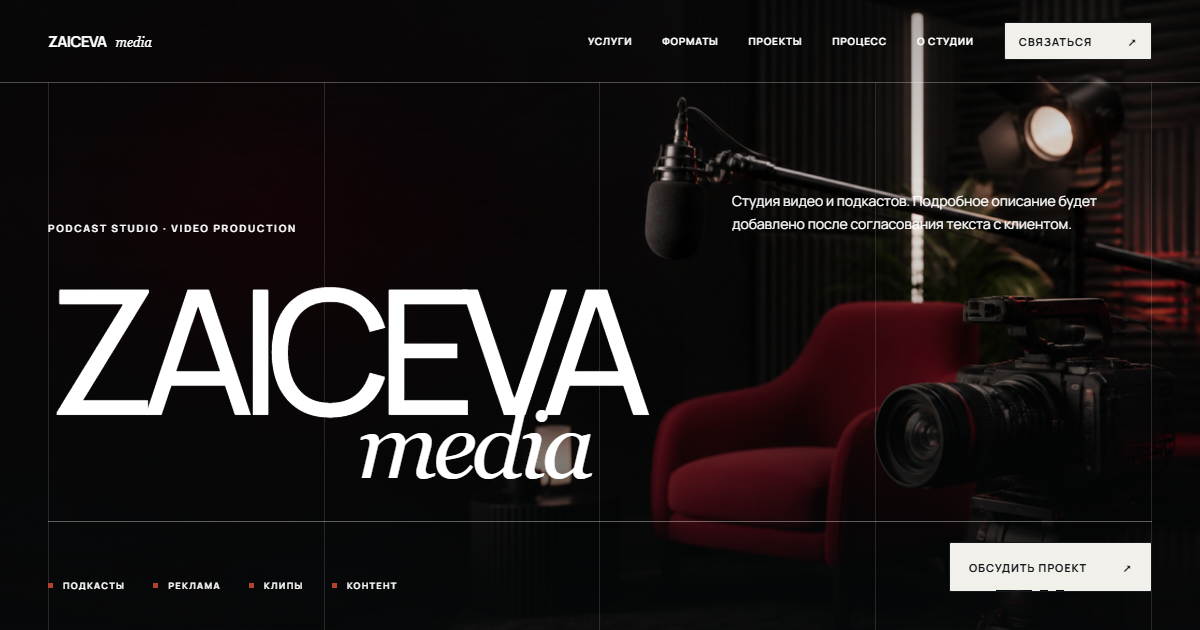
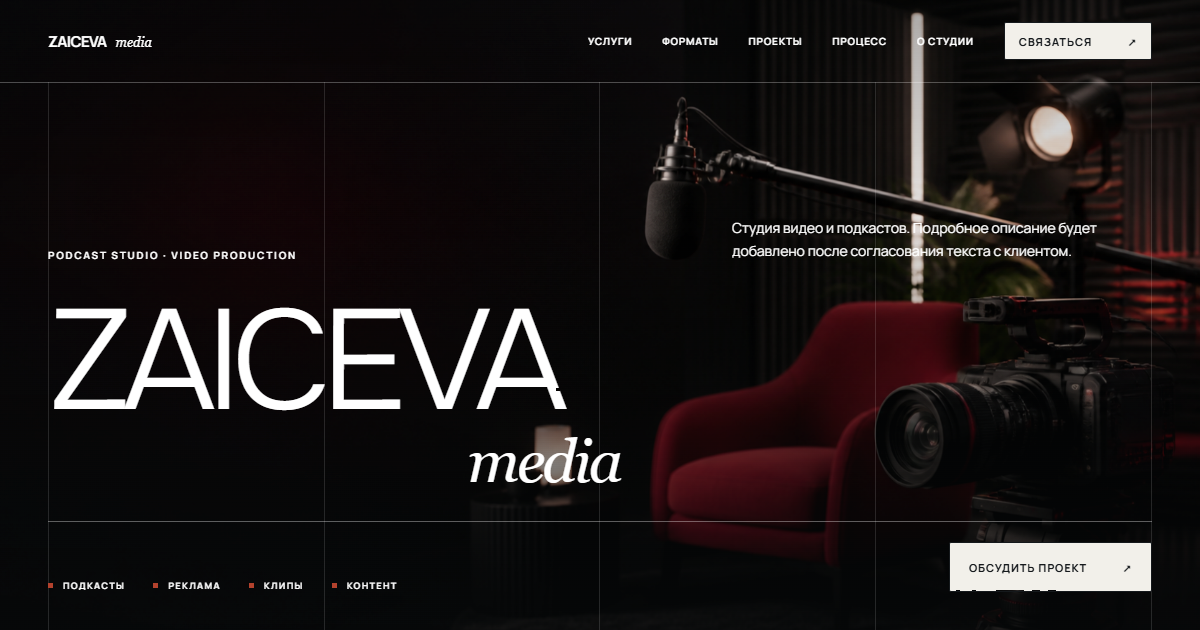
Refine typography and project carousel spacing

Changed region(s): [[0.0308, 0.4524, 0.555, 0.7841], [0.6167, 0.3016, 0.925, 0.4222], [0.0308, 0.3317, 0.2467, 0.4222]]

diff --git a/zaiceva-media/index.html b/zaiceva-media/index.html
@@ -18,24 +18,24 @@
   <link rel="icon" href="public/favicon.svg" type="image/svg+xml" />
   <link rel="preconnect" href="https://fonts.googleapis.com" />
   <link rel="preconnect" href="https://fonts.gstatic.com" crossorigin />
-  <link href="https://fonts.googleapis.com/css2?family=Manrope:wght@400;500;600;700&amp;display=swap" rel="stylesheet" />
+  <link href="https://fonts.googleapis.com/css2?family=Manrope:wght@400;500;600;700&amp;family=Onest:wght@300;400;500;600&amp;display=swap" rel="stylesheet" />
   <title>Zaiceva Media — студия подкастов и видео</title>
   <script type="application/ld+json">{"@context":"https://schema.org","@type":"ProfessionalService","name":"Zaiceva Media","url":"https://timok05.github.io/stixamiudivi/zaiceva-media/","image":"https://timok05.github.io/stixamiudivi/zaiceva-media/public/og.png","sameAs":["https://www.instagram.com/zaiceva.media"],"knowsAbout":["Видеопроизводство","Подкасты","Монтаж видео","Рекламные ролики","Музыкальные клипы"]}</script>
   <style>
     :root{--ink:#15191c;--paper:#f2f0ea;--white:#fff;--mist:#c4d2dc;--slate:#2e4c5f;--signal:#b3422d;--line:rgba(21,25,28,.22);--muted:#62676a;--max:1360px;--gutter:clamp(20px,4vw,64px)}
     *{box-sizing:border-box}html{scroll-behavior:smooth}body{margin:0;overflow-x:hidden;color:var(--ink);background:var(--paper);font-family:"Manrope",Arial,sans-serif;-webkit-font-smoothing:antialiased;text-rendering:optimizeLegibility}body.menu-open{overflow:hidden}a{color:inherit;text-decoration:none}button{color:inherit;font:inherit}img{display:block;max-width:100%}.site-shell{overflow:hidden}.wrap{width:min(calc(100% - (var(--gutter)*2)),var(--max));margin-inline:auto}
-    .display{margin:0;font-size:clamp(55px,8.25vw,126px);font-weight:500;letter-spacing:-.075em;line-height:.84;text-transform:uppercase}.kicker{margin:0;font-size:10px;font-weight:700;letter-spacing:.18em;line-height:1.4;text-transform:uppercase}.button{display:inline-flex;min-height:50px;align-items:center;justify-content:space-between;gap:36px;padding:0 19px;border:1px solid currentColor;border-radius:2px;font-size:11px;font-weight:700;letter-spacing:.08em;text-transform:uppercase;transition:color .25s ease,background-color .25s ease,transform .25s ease}.button:hover{transform:translateY(-2px)}.button--light{color:var(--ink);background:var(--paper)}.button--light:hover{color:var(--white);background:var(--signal)}.button--dark{color:var(--paper);background:var(--ink)}.button--dark:hover{background:var(--slate)}.button:focus-visible,.menu-toggle:focus-visible,.nav a:focus-visible,.carousel-control:focus-visible,.project-viewport:focus-visible,.project-card:focus-visible{outline:2px solid var(--signal);outline-offset:5px}
+    .display{margin:0;font-family:"Onest","Manrope",Arial,sans-serif;font-size:clamp(50px,7vw,106px);font-weight:400;letter-spacing:-.055em;line-height:.92;text-transform:uppercase}.kicker{margin:0;font-size:10px;font-weight:700;letter-spacing:.18em;line-height:1.4;text-transform:uppercase}.button{display:inline-flex;min-height:50px;align-items:center;justify-content:space-between;gap:36px;padding:0 19px;border:1px solid currentColor;border-radius:2px;font-size:11px;font-weight:700;letter-spacing:.08em;text-transform:uppercase;transition:color .25s ease,background-color .25s ease,transform .25s ease}.button:hover{transform:translateY(-2px)}.button--light{color:var(--ink);background:var(--paper)}.button--light:hover{color:var(--white);background:var(--signal)}.button--dark{color:var(--paper);background:var(--ink)}.button--dark:hover{background:var(--slate)}.button:focus-visible,.menu-toggle:focus-visible,.nav a:focus-visible,.carousel-control:focus-visible,.project-viewport:focus-visible,.project-card:focus-visible{outline:2px solid var(--signal);outline-offset:5px}
     .topbar{position:absolute;z-index:30;top:0;right:0;left:0;color:var(--white);border-bottom:1px solid rgba(255,255,255,.28)}.topbar-inner{display:flex;min-height:82px;align-items:center;gap:34px}.brand{display:inline-flex;align-items:baseline;gap:9px;flex:0 0 auto;font-size:15px;font-weight:700;letter-spacing:-.04em;text-transform:uppercase}.brand span:last-child{font-family:Georgia,serif;font-size:13px;font-style:italic;font-weight:400;letter-spacing:0;text-transform:none}.nav{display:flex;align-items:center;gap:30px;margin-left:auto;font-size:10px;font-weight:700;letter-spacing:.08em;text-transform:uppercase}.nav>a:not(.button){position:relative;padding-block:10px}.nav>a:not(.button):after{position:absolute;right:0;bottom:3px;left:0;height:1px;background:currentColor;content:"";transform:scaleX(0);transform-origin:right;transition:transform .25s ease}.nav>a:not(.button):hover:after{transform:scaleX(1);transform-origin:left}.topbar .button{min-height:38px;padding-inline:14px;color:var(--ink);background:var(--paper)}.menu-toggle{display:none;width:44px;height:44px;margin-left:auto;padding:0;border:1px solid rgba(255,255,255,.6);border-radius:50%;background:transparent;cursor:pointer}.menu-toggle span,.menu-toggle:before,.menu-toggle:after{display:block;width:16px;height:1px;margin:5px auto;background:currentColor;content:"";transition:transform .2s ease,opacity .2s ease}.menu-toggle[aria-expanded=true] span{opacity:0}.menu-toggle[aria-expanded=true]:before{transform:translateY(6px) rotate(45deg)}.menu-toggle[aria-expanded=true]:after{transform:translateY(-6px) rotate(-45deg)}
-    .hero{position:relative;min-height:100svh;display:flex;align-items:flex-end;overflow:hidden;color:var(--white);background:var(--ink)}.hero-image-frame{position:absolute;inset:0;overflow:hidden;background:#0a0b0c}.hero-image-frame img{width:100%;height:100%;object-fit:cover;object-position:center;animation:hero-scale 14s ease-out both}.hero-image-frame:after{position:absolute;inset:0;background:linear-gradient(180deg,rgba(7,9,10,.32) 0%,rgba(7,9,10,.08) 34%,rgba(7,9,10,.76) 100%),linear-gradient(90deg,rgba(7,9,10,.44),transparent 52%);content:""}.hero-grid-lines{position:absolute;inset:82px var(--gutter) 0;z-index:1;display:grid;grid-template-columns:repeat(4,1fr);border-right:1px solid rgba(255,255,255,.13);border-left:1px solid rgba(255,255,255,.13);pointer-events:none}.hero-grid-lines i{border-right:1px solid rgba(255,255,255,.13)}.hero-grid-lines i:last-child{border-right:0}.hero-inner{position:relative;z-index:2;width:100%;padding:150px 0 38px}.hero-intro{display:grid;grid-template-columns:1fr minmax(280px,420px);gap:50px;align-items:end;margin-bottom:clamp(55px,9vh,110px)}.hero-intro p:last-child{max-width:420px;margin:0;font-size:14px;line-height:1.65}.hero-title{font-size:clamp(72px,14.5vw,220px);letter-spacing:-.09em;line-height:.66;white-space:nowrap}.hero-title span{display:block;margin-left:28%;font-family:Georgia,serif;font-size:.53em;font-style:italic;font-weight:400;letter-spacing:-.055em;line-height:.85;text-transform:none}.hero-bottom{display:grid;grid-template-columns:1fr auto;gap:30px;align-items:end;margin-top:36px;padding-top:20px;border-top:1px solid rgba(255,255,255,.35)}.hero-index{display:flex;flex-wrap:wrap;gap:28px;margin:0;padding:0;list-style:none;font-size:9px;font-weight:700;letter-spacing:.15em;text-transform:uppercase}.hero-index li{display:flex;align-items:center;gap:10px}.hero-index li:before{width:5px;height:5px;background:var(--signal);content:""}@keyframes hero-scale{from{transform:scale(1.075)}to{transform:scale(1)}}
+    .hero{position:relative;min-height:100svh;display:flex;align-items:flex-end;overflow:hidden;color:var(--white);background:var(--ink)}.hero-image-frame{position:absolute;inset:0;overflow:hidden;background:#0a0b0c}.hero-image-frame img{width:100%;height:100%;object-fit:cover;object-position:center;animation:hero-scale 14s ease-out both}.hero-image-frame:after{position:absolute;inset:0;background:linear-gradient(180deg,rgba(7,9,10,.32) 0%,rgba(7,9,10,.08) 34%,rgba(7,9,10,.76) 100%),linear-gradient(90deg,rgba(7,9,10,.44),transparent 52%);content:""}.hero-grid-lines{position:absolute;inset:82px var(--gutter) 0;z-index:1;display:grid;grid-template-columns:repeat(4,1fr);border-right:1px solid rgba(255,255,255,.13);border-left:1px solid rgba(255,255,255,.13);pointer-events:none}.hero-grid-lines i{border-right:1px solid rgba(255,255,255,.13)}.hero-grid-lines i:last-child{border-right:0}.hero-inner{position:relative;z-index:2;width:100%;padding:150px 0 38px}.hero-intro{display:grid;grid-template-columns:1fr minmax(280px,420px);gap:50px;align-items:end;margin-bottom:clamp(45px,6vh,72px)}.hero-intro p:last-child{max-width:420px;margin:0;font-size:14px;line-height:1.65}.hero-title{font-size:clamp(68px,11.8vw,178px);font-weight:300;letter-spacing:-.07em;line-height:.78;white-space:nowrap}.hero-title span{display:block;margin:clamp(12px,1.4vw,22px) 0 0 38%;font-family:Georgia,serif;font-size:.42em;font-style:italic;font-weight:400;letter-spacing:-.045em;line-height:.88;text-transform:none}.hero-bottom{display:grid;grid-template-columns:1fr auto;gap:30px;align-items:end;margin-top:34px;padding-top:20px;border-top:1px solid rgba(255,255,255,.35)}.hero-index{display:flex;flex-wrap:wrap;gap:28px;margin:0;padding:0;list-style:none;font-size:9px;font-weight:700;letter-spacing:.15em;text-transform:uppercase}.hero-index li{display:flex;align-items:center;gap:10px}.hero-index li:before{width:5px;height:5px;background:var(--signal);content:""}@keyframes hero-scale{from{transform:scale(1.075)}to{transform:scale(1)}}
     .ticker{overflow:hidden;color:var(--paper);background:var(--signal)}.ticker-track{display:flex;width:max-content;animation:ticker-run 36s linear infinite}.ticker-item{display:flex;align-items:center;gap:30px;padding:17px 30px;font-family:Georgia,serif;font-size:17px;font-style:italic;white-space:nowrap}.ticker-item:after{width:44px;height:1px;background:currentColor;content:""}@keyframes ticker-run{to{transform:translateX(-50%)}}
     .section-head{display:grid;grid-template-columns:minmax(0,1.25fr) minmax(260px,.5fr);gap:60px;align-items:end;margin-bottom:72px}.section-head .display{margin-top:24px}.section-head>p{max-width:390px;margin:0 0 5px auto;color:var(--muted);font-size:14px;line-height:1.7}.services{padding:145px 0 150px;background:var(--paper)}.service-list{border-top:1px solid var(--line)}.service-card{display:grid;grid-template-columns:90px minmax(280px,.9fr) minmax(260px,.7fr) 32px;gap:30px;align-items:center;min-height:138px;border-bottom:1px solid var(--line);transition:padding .25s ease,color .25s ease,background-color .25s ease}.service-card:hover{padding-inline:18px;color:var(--paper);background:var(--slate)}.service-number{font-size:10px;font-weight:700;letter-spacing:.12em}.service-card h3{margin:0;font-size:clamp(24px,3vw,43px);font-weight:500;letter-spacing:-.05em;line-height:1.05}.service-card p{max-width:330px;margin:0;color:var(--muted);font-size:12px;line-height:1.6}.service-card:hover p{color:rgba(255,255,255,.7)}.service-arrow{font-size:20px;font-weight:400;transition:transform .25s ease}.service-card:hover .service-arrow{transform:translate(5px,-5px)}
     .formats{color:var(--paper);background:var(--ink)}.formats-grid{display:grid;grid-template-columns:1.1fr .9fr;min-height:760px}.formats-media{position:relative;min-height:600px;overflow:hidden}.formats-media img{width:100%;height:100%;object-fit:cover;object-position:69% center;filter:grayscale(1) contrast(1.05);transition:filter .7s ease,transform 1s ease}.formats:hover .formats-media img{filter:grayscale(.25) contrast(1.02);transform:scale(1.015)}.formats-media:after{position:absolute;inset:0;background:linear-gradient(180deg,transparent 50%,rgba(12,14,15,.6));content:""}.formats-caption{position:absolute;z-index:2;right:28px;bottom:24px;left:28px;display:flex;justify-content:space-between;gap:20px;padding-top:14px;border-top:1px solid rgba(255,255,255,.4);font-size:9px;letter-spacing:.14em;text-transform:uppercase}.formats-copy{display:flex;flex-direction:column;padding:92px var(--gutter) 70px;overflow:hidden}.formats-copy .display{margin:28px 0 62px;font-size:clamp(60px,7.2vw,110px)}.format-list{margin:auto 0 0;padding:0;list-style:none}.format-list li{display:grid;grid-template-columns:44px 1fr auto;gap:14px;align-items:baseline;padding:21px 0;border-top:1px solid rgba(255,255,255,.22)}.format-list small{font-size:9px;letter-spacing:.15em}.format-list strong{font-size:18px;font-weight:500;letter-spacing:-.025em}.format-list span{color:rgba(255,255,255,.45);font-size:9px;letter-spacing:.1em;text-transform:uppercase}
-    .projects{padding:145px 0 138px;overflow:hidden;background:var(--mist)}.projects-head{display:grid;grid-template-columns:minmax(0,1fr) auto;gap:40px;align-items:end;margin-bottom:65px}.projects-head .display{margin-top:24px}.carousel-controls{display:flex;align-items:center;gap:10px;padding-bottom:7px}.carousel-counter{min-width:70px;font-size:10px;font-weight:700;letter-spacing:.12em;text-align:center}.carousel-control{display:grid;width:48px;height:48px;place-items:center;border:1px solid var(--ink);border-radius:50%;background:transparent;cursor:pointer;transition:color .25s ease,background-color .25s ease}.carousel-control:hover{color:var(--paper);background:var(--ink)}.project-viewport{overflow-x:auto;scroll-behavior:smooth;scroll-snap-type:x mandatory;scrollbar-width:none;cursor:grab}.project-viewport:active{cursor:grabbing}.project-viewport::-webkit-scrollbar{display:none}.project-track{display:flex;width:max-content;gap:18px;padding:0 max(var(--gutter),calc((100vw - var(--max))/2))}.project-card{width:clamp(390px,59vw,880px);flex:0 0 auto;scroll-snap-align:start}.project-stage{position:relative;aspect-ratio:16/9;overflow:hidden;background:#1c2022}.project-stage img{width:100%;height:100%;object-fit:cover;filter:saturate(.5) contrast(1.04);transition:filter .55s ease,transform .8s cubic-bezier(.2,.7,.2,1)}.project-card:nth-child(1) .project-stage img{object-position:65% center}.project-card:nth-child(2) .project-stage img{object-position:46% 44%;filter:grayscale(1) contrast(1.1)}.project-card:nth-child(3) .project-stage img{object-position:86% 55%;filter:saturate(.15) sepia(.18) contrast(1.08)}.project-card:nth-child(4) .project-stage img{object-position:55% 74%;filter:grayscale(.5) contrast(1.15)}.project-card:nth-child(5) .project-stage img{object-position:75% 25%;filter:saturate(.35) contrast(1.02)}.project-card:hover .project-stage img,.project-card:focus-visible .project-stage img{filter:saturate(.9) contrast(1.02);transform:scale(1.025)}.project-stage:after{position:absolute;inset:0;background:linear-gradient(180deg,rgba(11,12,13,.08),rgba(11,12,13,.68));content:""}.project-label,.project-index{position:absolute;z-index:2;top:20px;color:var(--white);font-size:9px;font-weight:700;letter-spacing:.16em;text-transform:uppercase}.project-label{left:22px}.project-index{right:22px}.project-placeholder{position:absolute;z-index:2;right:22px;bottom:20px;left:22px;display:flex;align-items:flex-end;justify-content:space-between;gap:24px;color:var(--white)}.project-placeholder strong{max-width:650px;font-size:clamp(28px,4.7vw,68px);font-weight:500;letter-spacing:-.055em;line-height:.9}.project-play{display:grid;width:50px;height:50px;flex:0 0 auto;place-items:center;border:1px solid rgba(255,255,255,.7);border-radius:50%;font-size:11px;transition:color .25s ease,background-color .25s ease,transform .25s ease}.project-card:hover .project-play{color:var(--ink);background:var(--paper);transform:scale(1.06)}.project-meta{display:flex;align-items:flex-start;justify-content:space-between;gap:30px;padding:18px 0 0}.project-meta h3{margin:0;font-size:17px;font-weight:600;letter-spacing:-.025em}.project-meta p{max-width:260px;margin:2px 0 0;color:#4d5b63;font-size:10px;line-height:1.5;text-align:right;text-transform:uppercase;letter-spacing:.08em}.carousel-progress{height:1px;margin-top:54px;background:rgba(21,25,28,.22)}.carousel-progress span{display:block;width:20%;height:2px;background:var(--signal);transform:translateX(var(--progress-x,0%));transition:transform .45s ease}
-    .process{padding:145px 0 155px;background:var(--paper)}.process-list{display:grid;grid-template-columns:repeat(4,1fr);border-top:1px solid var(--line)}.process-card{min-height:330px;padding:21px 30px 28px 0;border-right:1px solid var(--line)}.process-card:not(:first-child){padding-left:30px}.process-card:last-child{border-right:0}.process-card span{font-size:9px;font-weight:700;letter-spacing:.15em}.process-card h3{margin:142px 0 20px;font-size:24px;font-weight:500;letter-spacing:-.04em}.process-card p{max-width:230px;margin:0;color:var(--muted);font-size:11px;line-height:1.65}
+    .projects{padding:118px 0 120px;overflow:hidden;background:var(--mist)}.projects-head{display:grid;grid-template-columns:minmax(0,1fr) auto;gap:40px;align-items:end;margin-bottom:50px}.projects-head .display{max-width:720px;margin-top:20px;font-size:clamp(46px,6.2vw,88px);line-height:.94}.carousel-controls{display:flex;align-items:center;gap:10px;padding-bottom:7px}.carousel-counter{min-width:70px;font-size:10px;font-weight:700;letter-spacing:.12em;text-align:center}.carousel-control{display:grid;width:48px;height:48px;place-items:center;border:1px solid var(--ink);border-radius:50%;background:transparent;cursor:pointer;transition:color .25s ease,background-color .25s ease}.carousel-control:hover{color:var(--paper);background:var(--ink)}.project-viewport{margin-inline:max(var(--gutter),calc((100vw - var(--max))/2));overflow-x:auto;scroll-behavior:smooth;scroll-snap-type:x mandatory;scrollbar-width:none;cursor:grab}.project-viewport:active{cursor:grabbing}.project-viewport::-webkit-scrollbar{display:none}.project-track{display:flex;width:max-content;gap:14px;padding:0}.project-card{width:clamp(350px,50vw,720px);flex:0 0 auto;scroll-snap-align:start}.project-stage{position:relative;aspect-ratio:16/9;overflow:hidden;background:#1c2022}.project-stage img{width:100%;height:100%;object-fit:cover;filter:saturate(.5) contrast(1.04);transition:filter .55s ease,transform .8s cubic-bezier(.2,.7,.2,1)}.project-card:nth-child(1) .project-stage img{object-position:65% center}.project-card:nth-child(2) .project-stage img{object-position:46% 44%;filter:grayscale(1) contrast(1.1)}.project-card:nth-child(3) .project-stage img{object-position:86% 55%;filter:saturate(.15) sepia(.18) contrast(1.08)}.project-card:nth-child(4) .project-stage img{object-position:55% 74%;filter:grayscale(.5) contrast(1.15)}.project-card:nth-child(5) .project-stage img{object-position:75% 25%;filter:saturate(.35) contrast(1.02)}.project-card:hover .project-stage img,.project-card:focus-visible .project-stage img{filter:saturate(.9) contrast(1.02);transform:scale(1.025)}.project-stage:after{position:absolute;inset:0;background:linear-gradient(180deg,rgba(11,12,13,.08),rgba(11,12,13,.68));content:""}.project-label,.project-index{position:absolute;z-index:2;top:20px;color:var(--white);font-size:9px;font-weight:700;letter-spacing:.16em;text-transform:uppercase}.project-label{left:22px}.project-index{right:22px}.project-placeholder{position:absolute;z-index:2;right:22px;bottom:20px;left:22px;display:flex;align-items:flex-end;justify-content:space-between;gap:24px;color:var(--white)}.project-placeholder strong{max-width:520px;font-family:"Onest","Manrope",Arial,sans-serif;font-size:clamp(25px,3.25vw,46px);font-weight:400;letter-spacing:-.045em;line-height:1}.project-play{display:grid;width:50px;height:50px;flex:0 0 auto;place-items:center;border:1px solid rgba(255,255,255,.7);border-radius:50%;font-size:11px;transition:color .25s ease,background-color .25s ease,transform .25s ease}.project-card:hover .project-play{color:var(--ink);background:var(--paper);transform:scale(1.06)}.project-meta{display:flex;align-items:flex-start;justify-content:space-between;gap:30px;padding:15px 0 0}.project-meta h3{margin:0;font-size:16px;font-weight:600;letter-spacing:-.025em}.project-meta p{max-width:260px;margin:2px 0 0;color:#4d5b63;font-size:9px;line-height:1.5;text-align:right;text-transform:uppercase;letter-spacing:.08em}.carousel-progress{height:1px;margin-top:42px;background:rgba(21,25,28,.22)}.carousel-progress span{display:block;width:20%;height:2px;background:var(--signal);transform:translateX(var(--progress-x,0%));transition:transform .45s ease}
+    .process{padding:132px 0 145px;background:var(--paper)}.process-list{display:grid;grid-template-columns:repeat(4,1fr);border-top:1px solid var(--line)}.process-card{position:relative;isolation:isolate;min-height:310px;padding:21px 30px 28px 0;overflow:hidden;border-right:1px solid var(--line);transition:color .38s ease,transform .38s cubic-bezier(.2,.7,.2,1),box-shadow .38s ease}.process-card:before{position:absolute;z-index:-1;inset:0;background:var(--slate);content:"";transform:translateY(102%);transition:transform .42s cubic-bezier(.2,.7,.2,1)}.process-card:after{position:absolute;top:0;right:0;left:0;height:3px;background:var(--signal);content:"";transform:scaleX(0);transform-origin:left;transition:transform .42s ease}.process-card:not(:first-child){padding-left:30px}.process-card:last-child{border-right:0}.process-card span{font-size:9px;font-weight:700;letter-spacing:.15em;transition:color .3s ease}.process-card h3{margin:126px 0 20px;font-family:"Onest","Manrope",Arial,sans-serif;font-size:22px;font-weight:400;letter-spacing:-.03em;transition:transform .38s ease}.process-card p{max-width:230px;margin:0;color:var(--muted);font-size:11px;line-height:1.65;transition:color .3s ease}@media(hover:hover){.process-card:hover{z-index:2;color:var(--paper);transform:translateY(-8px);box-shadow:0 18px 36px rgba(21,25,28,.16)}.process-card:hover:before{transform:none}.process-card:hover:after{transform:scaleX(1)}.process-card:hover span{color:#e3a18f}.process-card:hover h3{transform:translateX(6px)}.process-card:hover p{color:rgba(255,255,255,.7)}}
     .about{color:var(--paper);background:var(--slate)}.about-grid{display:grid;grid-template-columns:.82fr 1.18fr;min-height:690px}.about-art{position:relative;min-height:520px;overflow:hidden;background:#131618}.about-art img{width:100%;height:100%;object-fit:cover;object-position:76% center;filter:grayscale(.95) contrast(1.1);opacity:.76}.about-art:after{position:absolute;inset:0;background:linear-gradient(180deg,transparent,rgba(10,12,13,.7));content:""}.about-zm{position:absolute;z-index:2;right:28px;bottom:20px;left:28px;font-family:Georgia,serif;font-size:clamp(90px,12vw,180px);font-style:italic;letter-spacing:-.09em;line-height:.62}.about-copy{align-self:center;padding:90px var(--gutter)}.about-copy h2{margin:28px 0 44px;font-size:clamp(60px,8vw,118px)}.about-copy>p:not(.kicker){max-width:570px;margin:0;color:rgba(255,255,255,.7);font-size:15px;line-height:1.75}.about-note{display:block;max-width:570px;margin-top:55px;padding-top:18px;border-top:1px solid rgba(255,255,255,.28);font-size:9px;letter-spacing:.14em;text-transform:uppercase}
     .cta{padding:140px 0 72px;background:var(--paper)}.cta-card{display:grid;grid-template-columns:minmax(0,1fr) auto;gap:50px;align-items:end;padding-bottom:70px;border-bottom:1px solid var(--ink)}.cta-card h2{max-width:1050px;margin:28px 0 0;font-size:clamp(58px,10vw,150px)}.cta-aside{max-width:360px;padding-bottom:9px}.cta-aside p{margin:0 0 28px;color:var(--muted);font-size:13px;line-height:1.7}footer{padding:25px 0 32px;background:var(--paper)}.footer-inner{display:grid;grid-template-columns:1fr auto auto;gap:34px;align-items:center;font-size:9px;font-weight:600;letter-spacing:.08em;text-transform:uppercase}.footer-inner p{margin:0;color:var(--muted)}.footer-link{padding-bottom:3px;border-bottom:1px solid var(--signal)}.reveal{opacity:0;transform:translateY(26px);transition:opacity .75s ease,transform .75s ease}.reveal.is-visible{opacity:1;transform:none}
     @media(max-width:1040px){.nav{gap:18px}.nav>a:not(.button){display:none}.formats-grid{grid-template-columns:.9fr 1.1fr}.service-card{grid-template-columns:60px minmax(250px,.9fr) minmax(220px,.7fr) 28px}.cta-card{grid-template-columns:1fr}.cta-aside{max-width:520px}}
-    @media(max-width:760px){:root{--gutter:20px}.wrap{width:calc(100% - (var(--gutter)*2))}.topbar-inner{min-height:70px}.menu-toggle{display:block}.topbar .brand{position:relative;z-index:41}.nav{position:fixed;z-index:40;inset:0;display:flex;flex-direction:column;align-items:flex-start;justify-content:center;gap:7px;padding:90px 24px 40px;color:var(--paper);background:var(--slate);font-size:clamp(26px,9vw,45px);font-weight:500;letter-spacing:-.05em;text-transform:none;opacity:0;pointer-events:none;transform:translateY(-10px);transition:opacity .25s ease,transform .25s ease}.nav.is-open{opacity:1;pointer-events:auto;transform:none}.nav>a:not(.button){display:block;padding:4px 0}.nav .button{min-height:48px;margin-top:24px;color:var(--ink);font-size:10px;letter-spacing:.08em}.menu-toggle{position:relative;z-index:41}.hero-grid-lines{inset:70px var(--gutter) 0;grid-template-columns:repeat(2,1fr)}.hero-grid-lines i:nth-child(n+3){display:none}.hero-inner{padding:122px 0 25px}.hero-intro{grid-template-columns:1fr;gap:22px;margin-bottom:80px}.hero-intro p:last-child{max-width:330px;font-size:12px}.hero-title{font-size:clamp(64px,22vw,110px);line-height:.72;white-space:normal}.hero-title span{margin-left:16%;font-size:.62em}.hero-bottom{grid-template-columns:1fr;gap:25px;margin-top:48px}.hero-bottom .button{width:100%}.hero-index{gap:12px 20px}.hero-image-frame img{object-position:66% center}.ticker-item{padding:14px 20px;font-size:15px}.services,.projects,.process{padding:92px 0 100px}.section-head,.projects-head{grid-template-columns:1fr;gap:28px;margin-bottom:48px}.section-head .display,.projects-head .display{margin-top:18px}.section-head>p{margin:0}.display{font-size:clamp(49px,16vw,78px)}.service-card{grid-template-columns:38px 1fr 20px;gap:12px;min-height:118px}.service-card p{display:none}.service-card h3{font-size:clamp(21px,6vw,30px)}.service-card:hover{padding-inline:10px}.formats-grid{grid-template-columns:1fr}.formats-media{min-height:66vh;order:2}.formats-copy{padding:86px var(--gutter) 56px}.formats-copy .display{margin:20px 0 56px;font-size:clamp(53px,17vw,80px)}.format-list li{grid-template-columns:36px 1fr}.format-list span{display:none}.projects-head{margin-bottom:38px}.carousel-controls{justify-self:start}.project-card{width:86vw}.project-stage{aspect-ratio:4/3}.project-placeholder strong{font-size:clamp(27px,9vw,44px)}.project-meta{display:block}.project-meta p{margin-top:6px;text-align:left}.carousel-progress{margin-top:38px}.process-list{grid-template-columns:1fr 1fr}.process-card{min-height:240px;padding:18px 18px 23px 0;border-bottom:1px solid var(--line)}.process-card:not(:first-child){padding-left:18px}.process-card:nth-child(2){border-right:0}.process-card:nth-child(3),.process-card:nth-child(4){border-bottom:0}.process-card h3{margin:80px 0 15px;font-size:20px}.about-grid{grid-template-columns:1fr}.about-art{min-height:75vh}.about-copy{padding:84px var(--gutter) 92px}.about-copy h2{font-size:clamp(56px,17vw,88px)}.cta{padding:90px 0 50px}.cta-card{gap:38px;padding-bottom:55px}.cta-card h2{font-size:clamp(55px,17vw,88px)}.cta-aside{padding-bottom:0}.cta-aside .button{width:100%}.footer-inner{grid-template-columns:1fr;gap:17px}}
+    @media(max-width:760px){:root{--gutter:20px}.wrap{width:calc(100% - (var(--gutter)*2))}.topbar-inner{min-height:70px}.menu-toggle{display:block}.topbar .brand{position:relative;z-index:41}.nav{position:fixed;z-index:40;inset:0;display:flex;flex-direction:column;align-items:flex-start;justify-content:center;gap:7px;padding:90px 24px 40px;color:var(--paper);background:var(--slate);font-size:clamp(26px,9vw,45px);font-weight:500;letter-spacing:-.05em;text-transform:none;opacity:0;pointer-events:none;transform:translateY(-10px);transition:opacity .25s ease,transform .25s ease}.nav.is-open{opacity:1;pointer-events:auto;transform:none}.nav>a:not(.button){display:block;padding:4px 0}.nav .button{min-height:48px;margin-top:24px;color:var(--ink);font-size:10px;letter-spacing:.08em}.menu-toggle{position:relative;z-index:41}.hero-grid-lines{inset:70px var(--gutter) 0;grid-template-columns:repeat(2,1fr)}.hero-grid-lines i:nth-child(n+3){display:none}.hero-inner{padding:122px 0 25px}.hero-intro{grid-template-columns:1fr;gap:22px;margin-bottom:65px}.hero-intro p:last-child{max-width:330px;font-size:12px}.hero-title{font-size:clamp(58px,19vw,84px);line-height:.82;white-space:normal}.hero-title span{margin:8px 0 0 18%;font-size:.48em}.hero-bottom{grid-template-columns:1fr;gap:25px;margin-top:42px}.hero-bottom .button{width:100%}.hero-index{gap:12px 20px}.hero-image-frame img{object-position:66% center}.ticker-item{padding:14px 20px;font-size:15px}.services,.projects,.process{padding:86px 0 94px}.section-head,.projects-head{grid-template-columns:1fr;gap:28px;margin-bottom:44px}.section-head .display,.projects-head .display{margin-top:18px}.section-head>p{margin:0}.display{font-size:clamp(44px,13vw,64px);line-height:.96}.service-card{grid-template-columns:38px 1fr 20px;gap:12px;min-height:118px}.service-card p{display:none}.service-card h3{font-size:clamp(21px,6vw,30px)}.service-card:hover{padding-inline:10px}.formats-grid{grid-template-columns:1fr}.formats-media{min-height:66vh;order:2}.formats-copy{padding:80px var(--gutter) 52px}.formats-copy .display{margin:20px 0 52px;font-size:clamp(45px,13.5vw,64px)}.format-list li{grid-template-columns:36px 1fr}.format-list span{display:none}.projects-head{margin-bottom:34px}.projects-head .display{font-size:clamp(43px,12.5vw,60px)}.carousel-controls{justify-self:start}.project-viewport{margin-inline:var(--gutter)}.project-card{width:calc(100vw - (var(--gutter)*3))}.project-stage{aspect-ratio:4/3}.project-placeholder strong{font-size:clamp(24px,7.2vw,34px)}.project-meta{display:block}.project-meta p{margin-top:6px;text-align:left}.carousel-progress{margin-top:34px}.process-list{grid-template-columns:1fr 1fr}.process-card{min-height:230px;padding:18px 18px 23px 0;border-bottom:1px solid var(--line)}.process-card:not(:first-child){padding-left:18px}.process-card:nth-child(2){border-right:0}.process-card:nth-child(3),.process-card:nth-child(4){border-bottom:0}.process-card h3{margin:72px 0 15px;font-size:19px}.about-grid{grid-template-columns:1fr}.about-art{min-height:75vh}.about-copy{padding:84px var(--gutter) 92px}.about-copy h2{font-size:clamp(48px,14vw,70px)}.cta{padding:86px 0 48px}.cta-card{gap:38px;padding-bottom:55px}.cta-card h2{font-size:clamp(50px,15vw,74px)}.cta-aside{padding-bottom:0}.cta-aside .button{width:100%}.footer-inner{grid-template-columns:1fr;gap:17px}}
     @media(max-width:420px){.hero-index{font-size:8px}.project-label,.project-index{top:14px}.project-label{left:15px}.project-index{right:15px}.project-placeholder{right:15px;bottom:14px;left:15px}.project-play{width:42px;height:42px}.process-card p{font-size:10px}}
     @media(prefers-reduced-motion:reduce){html{scroll-behavior:auto}*,*:before,*:after{animation-duration:1ms!important;animation-iteration-count:1!important;scroll-behavior:auto!important;transition-duration:1ms!important}.reveal{opacity:1;transform:none}}
   </style>
